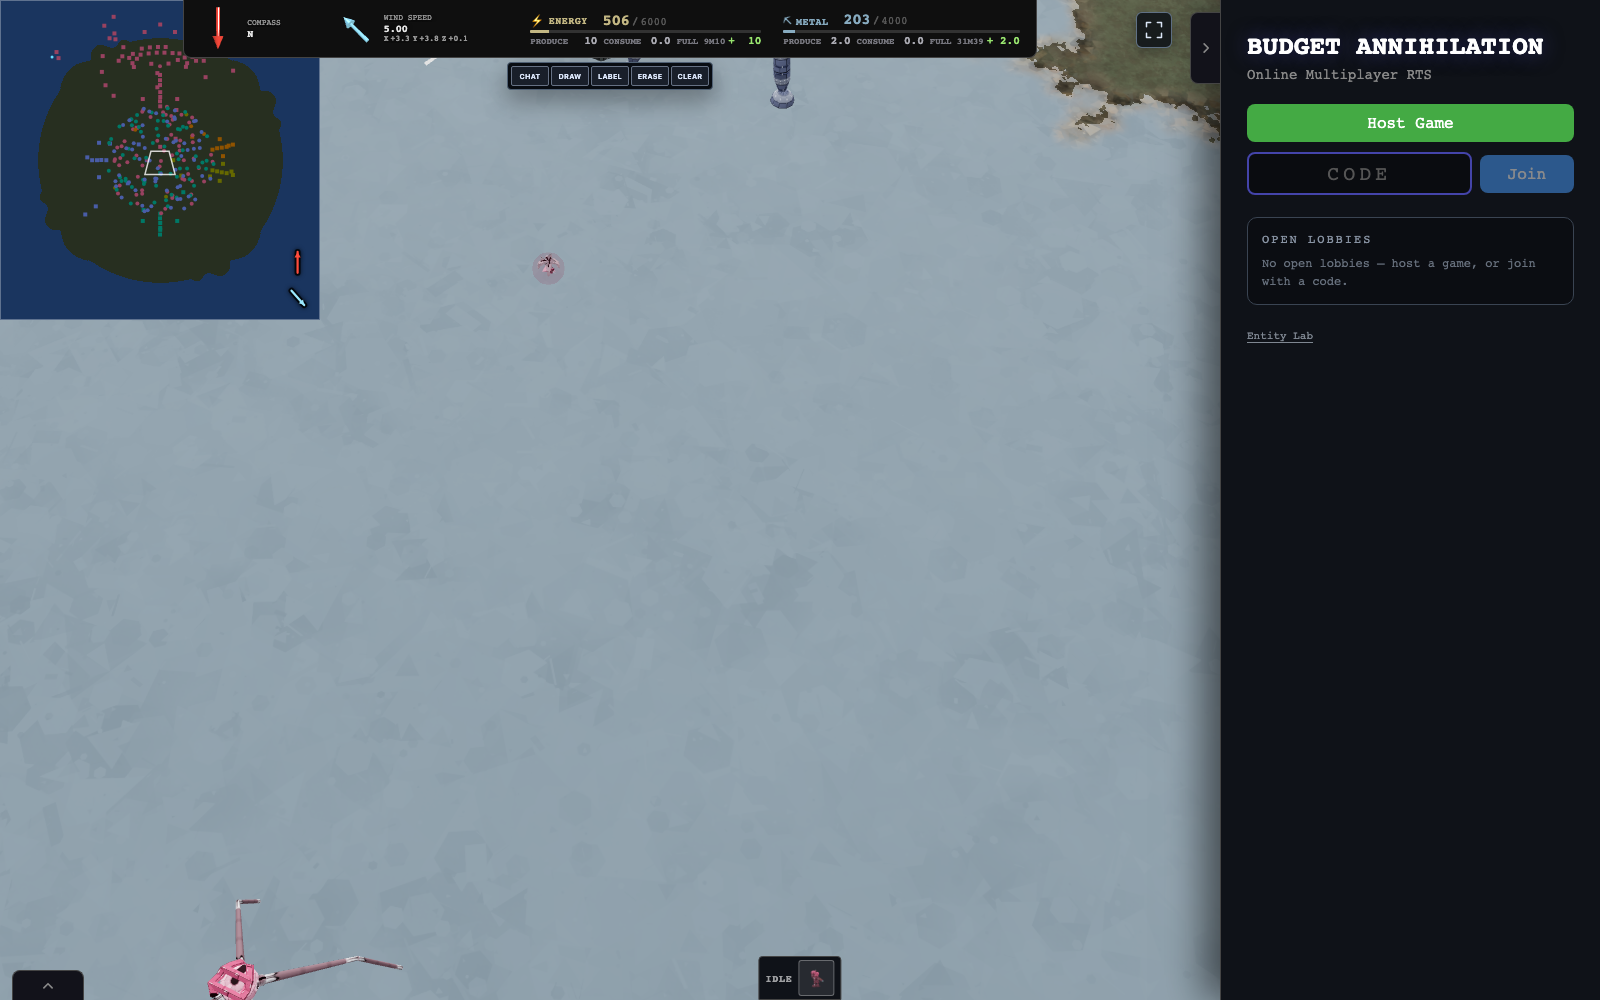
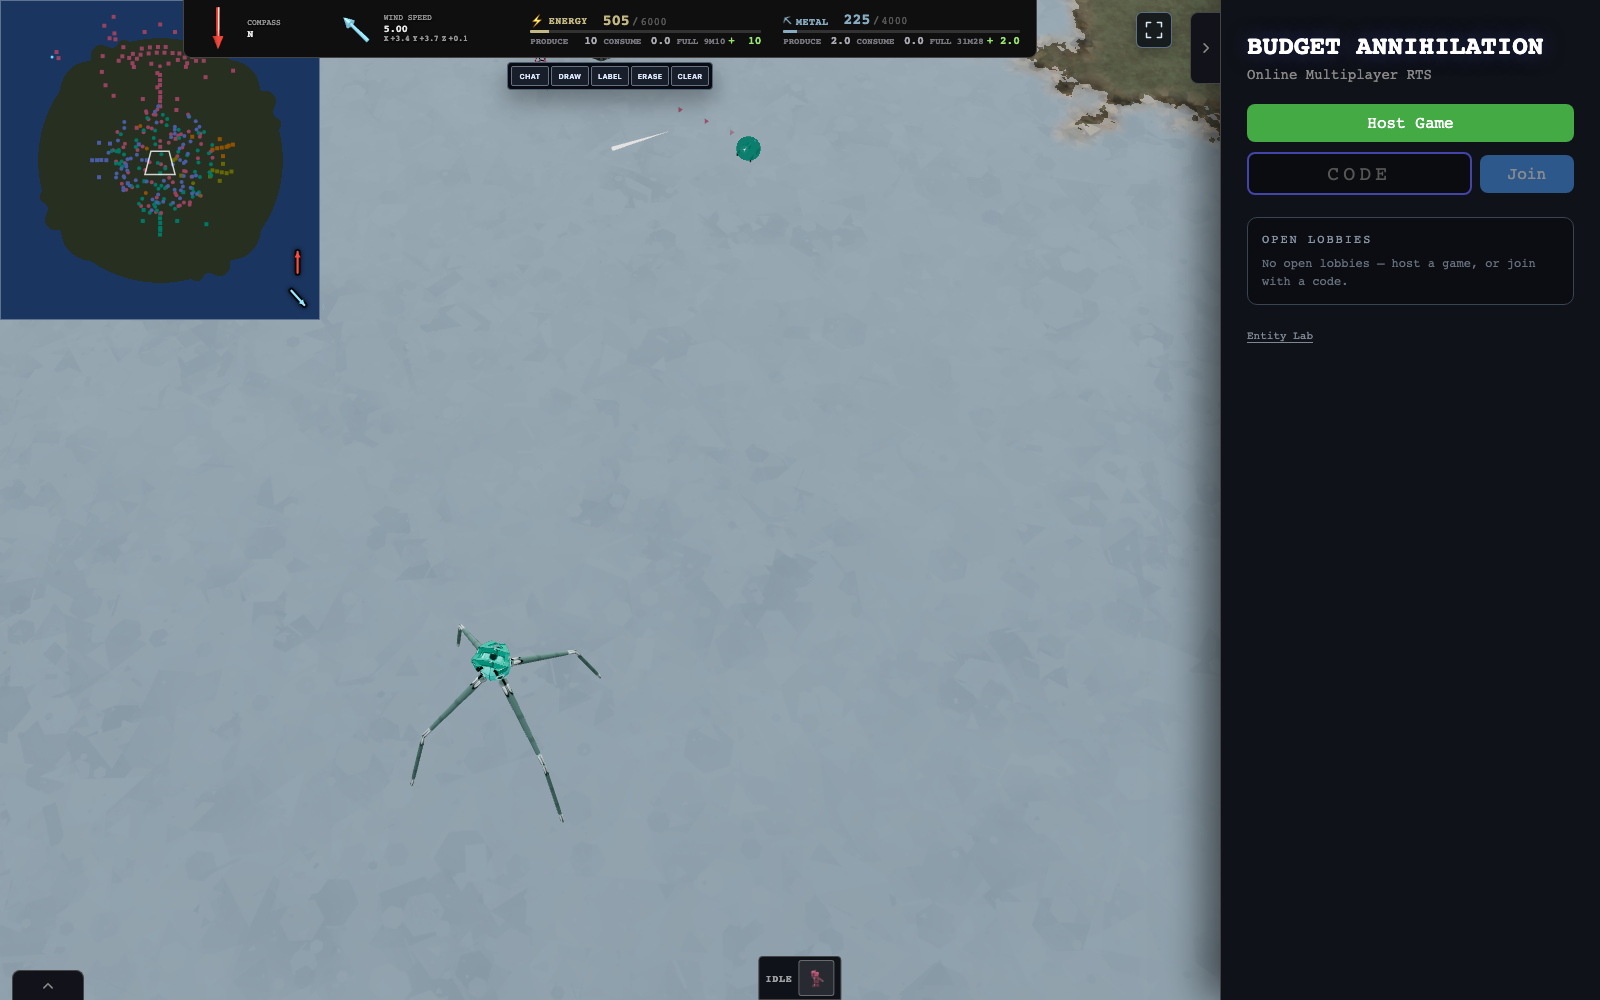
items

diff --git a/src/game/render3d/TerrainTileRenderer3D.ts b/src/game/render3d/TerrainTileRenderer3D.ts
@@ -69,7 +69,7 @@ import { buildWorldBoxFloorGeometry, getWorldBoxFloorY } from './WorldBoxGeometr
 import {
   emitMapInfoAnnexGeometry,
   mapInfoAnnexFlatHeight,
-  mapInfoAnnexMapSamplePoint,
+  mapInfoAnnexHorizonFade,
   resolveMapInfoAnnexFootprint,
 } from './MapInfoAnnex3D';
 import {
@@ -2543,10 +2543,11 @@ export class TerrainTileRenderer3D {
         nx: number,
         ny: number,
         nz: number,
-        // Where this wall reads the horizon blend, when that is not its own
-        // position: the annex stands off the map edge, and sampling it there
-        // would score every one of its walls a full fade. Null = read here.
-        horizonFadeAt: { readonly x: number; readonly z: number } | null = null,
+        // The horizon blend this wall carries, when it is not the one its own
+        // position scores: the annex stands off the map edge, where the blend
+        // is total, so its walls are handed the eased value the annex surface
+        // they hang off already uses. Null = read it here.
+        horizonFade: number | null = null,
       ): number => {
         const idx = terrainPositions.length / 3;
         terrainPositions.push(x, y, z);
@@ -2562,11 +2563,8 @@ export class TerrainTileRenderer3D {
         // is 1.0 so the grass mask fully suppresses any green tint here.
         terrainNeighborhoodSlopes.push(1);
         terrainHorizonFades.push(
-          this.getTerrainHorizonFadeForWaterBoundaryMode(
-            horizonFadeAt?.x ?? x,
-            horizonFadeAt?.z ?? z,
-            waterBoundaryMode,
-          ),
+          horizonFade ??
+            this.getTerrainHorizonFadeForWaterBoundaryMode(x, z, waterBoundaryMode),
         );
         return idx;
       };
@@ -2704,6 +2702,13 @@ export class TerrainTileRenderer3D {
       // map rectangle, so it looks playable and is not.
       if (!wallTriangleDebug) {
         const annex = resolveMapInfoAnnexFootprint(this.mapWidth, this.mapHeight);
+        const annexHorizonFade = (x: number, z: number): number =>
+          mapInfoAnnexHorizonFade(annex, x, z, (mapX, mapZ) =>
+            this.getTerrainHorizonFadeForWaterBoundaryMode(
+              mapX,
+              mapZ,
+              waterBoundaryMode,
+            ));
         emitMapInfoAnnexGeometry(
           annex,
           {
@@ -2726,20 +2731,12 @@ export class TerrainTileRenderer3D {
               terrainWallWears.push(1, 0, y, 1, 0, y);
               terrainVertexWallClasses.push(0);
               terrainNeighborhoodSlopes.push(slope);
-              // Not at (x, z): the horizon blend is total everywhere past the
-              // map's rectangle, so read here the whole headland would paint
-              // as one slab of horizon colour instead of as the seabed it is
-              // meant to continue. mapInfoAnnexMapSamplePoint folds the annex
-              // back into the map — the seam keeps the coast's own blend, and
-              // the flat table gets what the map's interior gets.
-              const blendSample = mapInfoAnnexMapSamplePoint(annex, x, z);
-              terrainHorizonFades.push(
-                this.getTerrainHorizonFadeForWaterBoundaryMode(
-                  blendSample.x,
-                  blendSample.z,
-                  waterBoundaryMode,
-                ),
-              );
+              // Not read at (x, z): the horizon blend is total everywhere past
+              // the map's rectangle, so taken there the whole headland paints
+              // as one slab of horizon colour instead of as the seabed it
+              // continues. It inherits the coast's blend at the seam and sheds
+              // it over the same band the height eases across.
+              terrainHorizonFades.push(annexHorizonFade(x, z));
               terrainShades.push(
                 terrainSunShade(
                   // The sim's normal is Z-up where the renderer's is Y-up.
@@ -2757,15 +2754,7 @@ export class TerrainTileRenderer3D {
               return idx;
             },
             pushWallVertex: (x, y, z, nx, nz): number =>
-              pushWorldBoxVertex(
-                x,
-                y,
-                z,
-                nx,
-                0,
-                nz,
-                mapInfoAnnexMapSamplePoint(annex, x, z),
-              ),
+              pushWorldBoxVertex(x, y, z, nx, 0, nz, annexHorizonFade(x, z)),
             pushTriangle: (a, b, c): void => {
               terrainIndices.push(a, b, c);
               terrainDebugLevels.push(-1);
